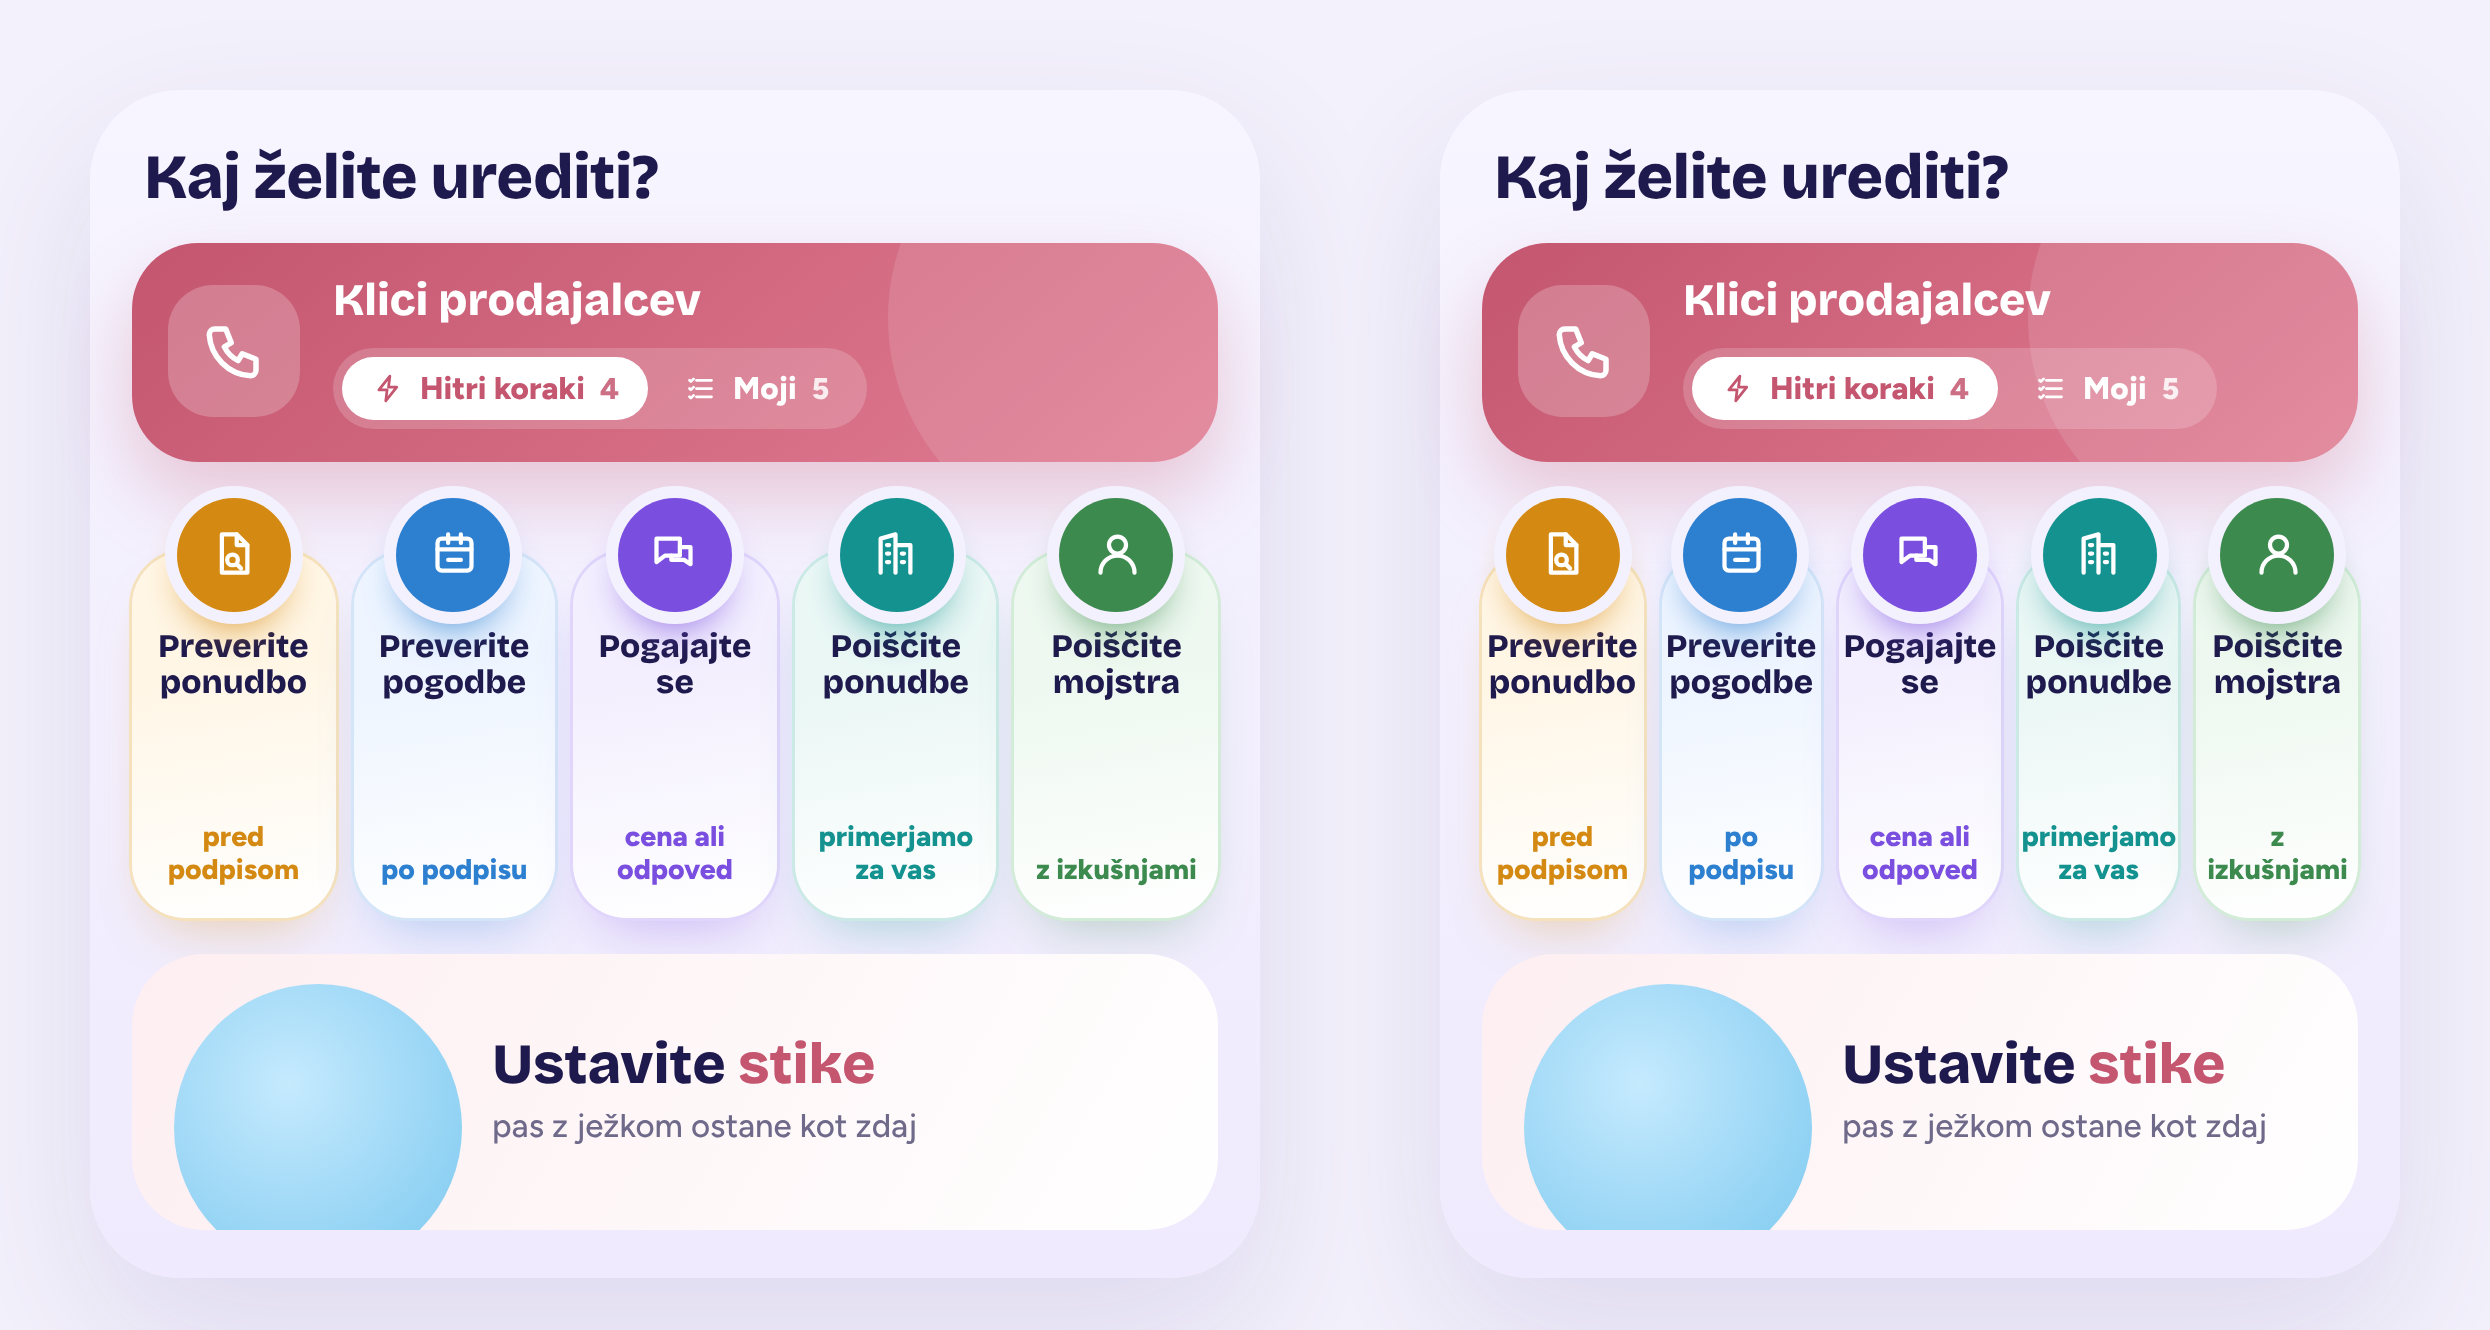
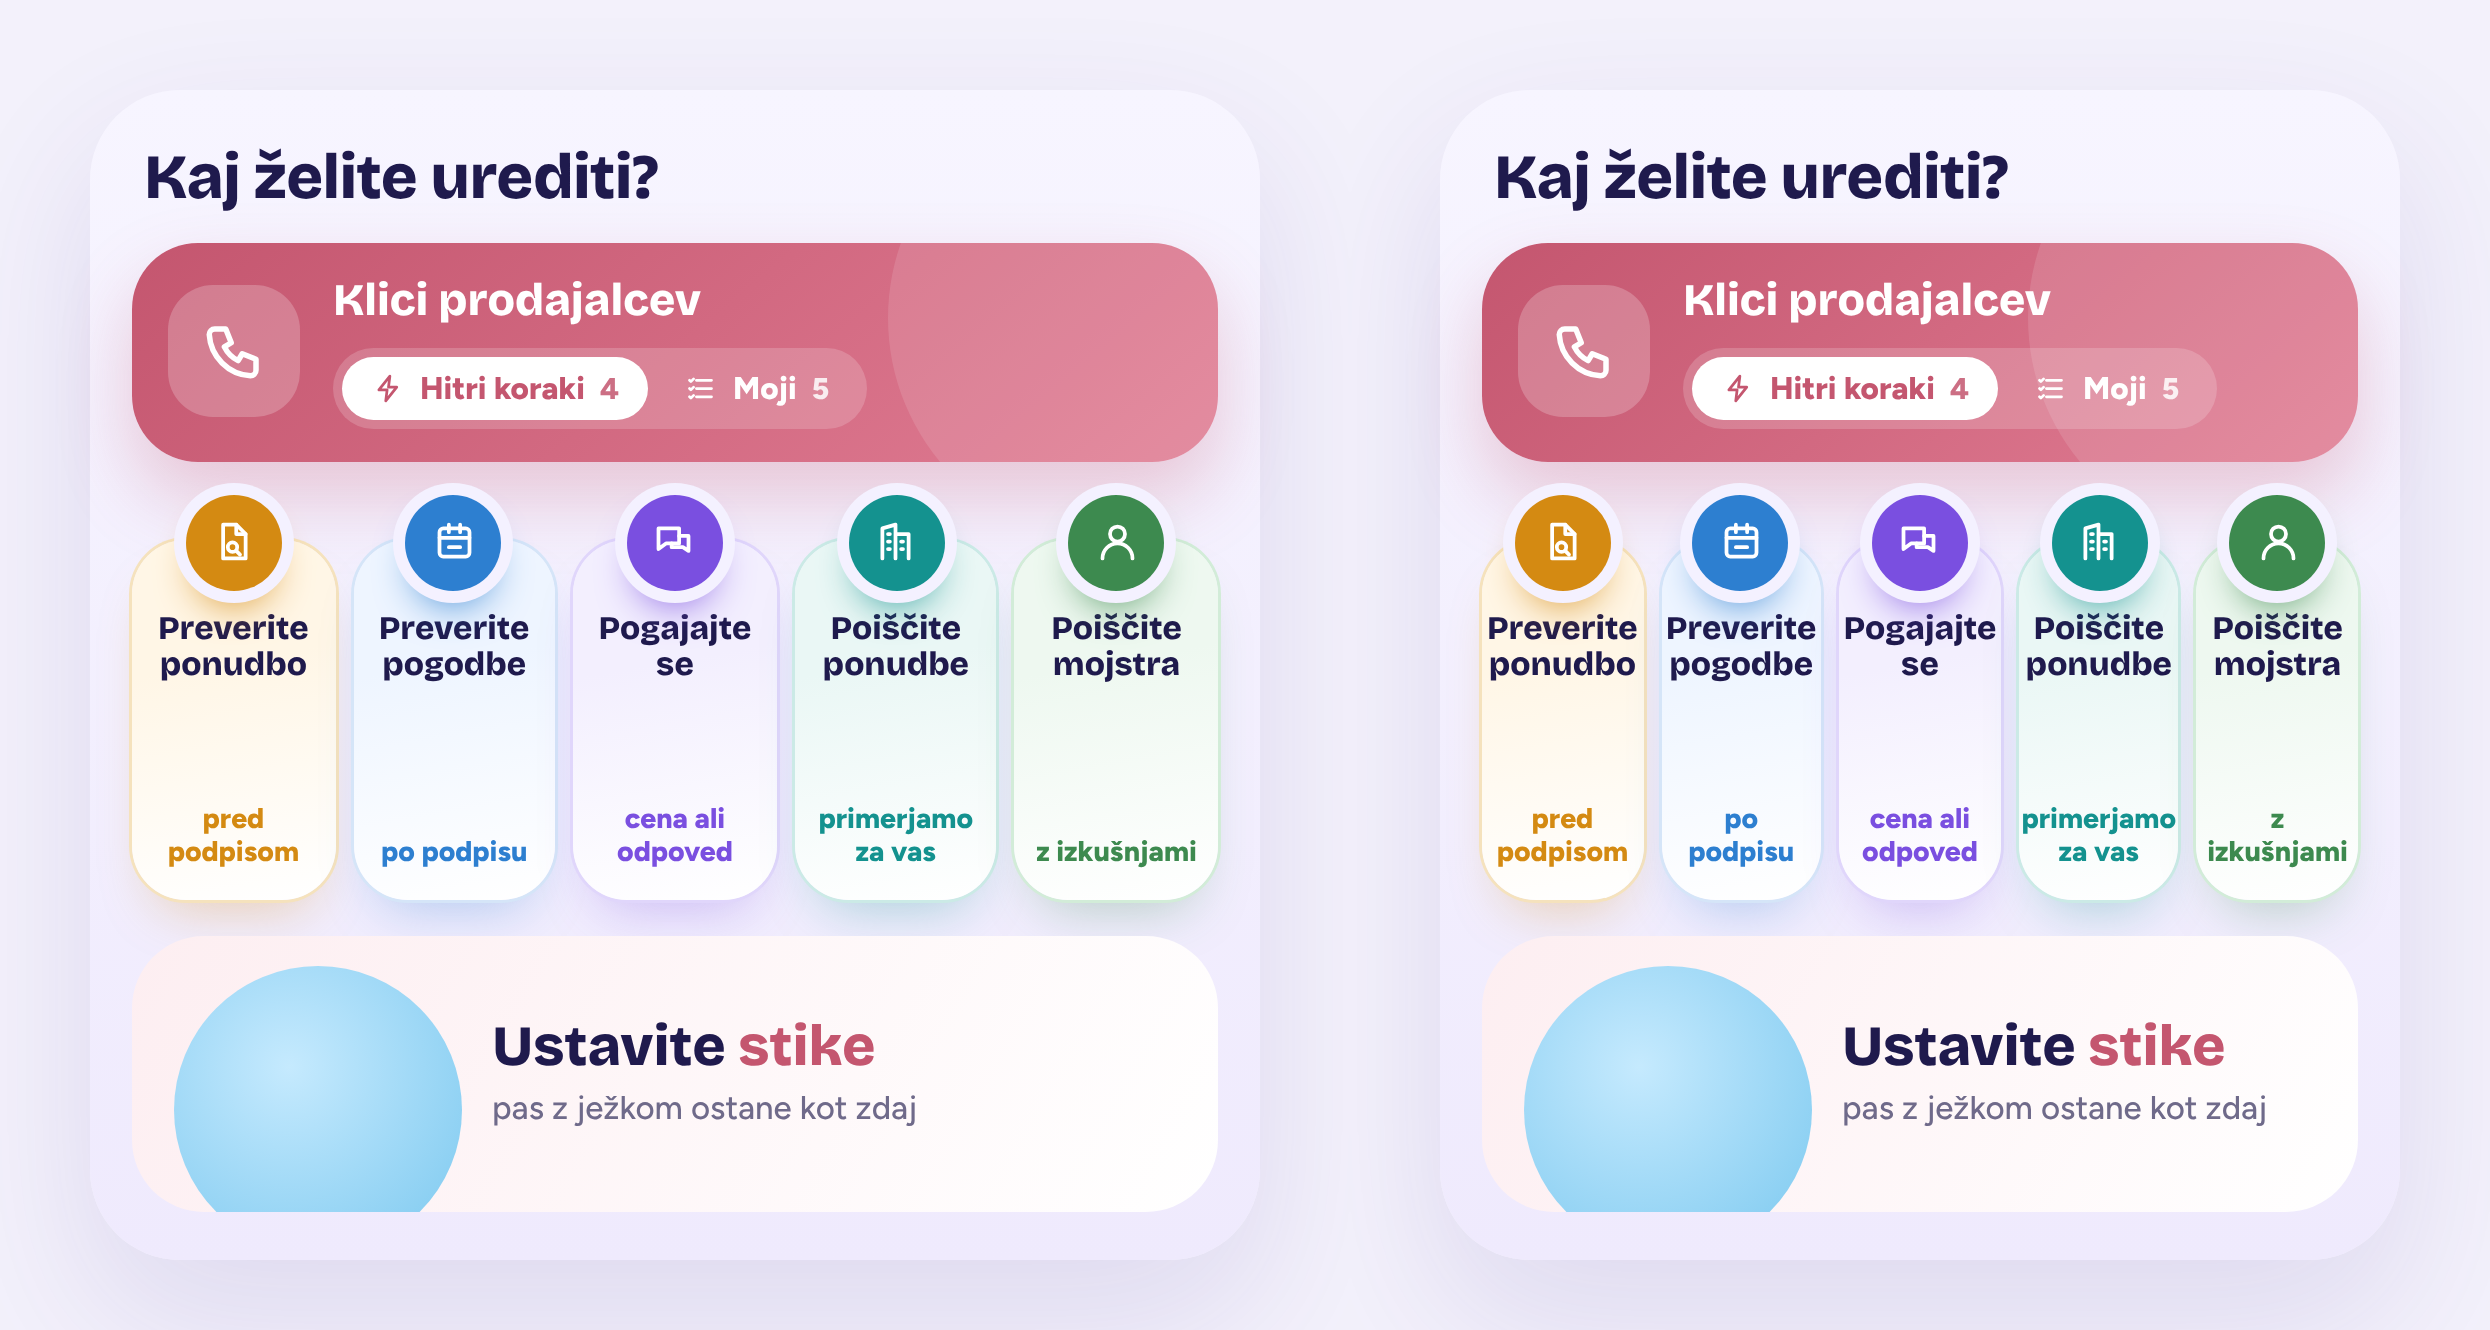
docs: Atena – komponenta kartic »Kaj želite urediti?« (CSS, JS, predogled, navodila za vgradnjo)
Claude-Session: https://claude.ai/code/session_01WHRGRb6JxsE1so6sHvV2Pq

diff --git a/docs/atena-kartice/kartice.js b/docs/atena-kartice/kartice.js
@@ -1,0 +1,68 @@
+/* Atena · »Kaj želite urediti?« — izris in vedenje kartic opravil.
+   Uporaba: UJAtenaOpravila.izrisi(elKoren, { hitri: 4, moji: 5, skupina: "klici", vir: "hitri" });
+   Ob izbiri sproži na korenu dogodek "atena:skupina" z detail { skupina, vir }. */
+(function (root) {
+  "use strict";
+  var I = function (d, s) {
+    return '<svg width="' + s + '" height="' + s + '" viewBox="0 0 24 24" fill="none" stroke="currentColor" stroke-width="2" stroke-linecap="round" stroke-linejoin="round" aria-hidden="true">' + d + "</svg>";
+  };
+  var IKONE = {
+    klici: '<path d="M5 4h4l2 5-2.5 1.5a11 11 0 005 5L15 13l5 2v4a2 2 0 01-2 2A16 16 0 013 6a2 2 0 012-2"/>',
+    ponudba: '<path d="M7 3h7l5 5v13H7z"/><path d="M14 3v5h5"/><circle cx="12" cy="15" r="2.5"/><path d="M14 17l2 2"/>',
+    pogodbe: '<rect x="4" y="5" width="16" height="15" rx="2"/><path d="M4 10h16M9 3v4M15 3v4"/><path d="M9 15h6"/>',
+    pogajanje: '<path d="M4 5h11v8H8l-4 3z"/><path d="M15 9h5v8l-3-2h-6v-2"/>',
+    iskanje: '<path d="M5 21V5l7-2v18M12 8h7v13"/><path d="M8 8h1M8 12h1M8 16h1M15 12h1M15 16h1"/>',
+    mojster: '<circle cx="12" cy="8" r="4"/><path d="M4 21a8 8 0 0116 0"/>',
+    hitri: '<path d="M13 3L5 13h6l-1 8 8-10h-6z"/>',
+    moji: '<path d="M9 6h11M9 12h11M9 18h11"/><path d="M4 6l1 1 2-2M4 12l1 1 2-2M4 18l1 1 2-2"/>'
+  };
+  var SKUPINE = [
+    { id: "ponudba", naslov: "Preverite<br>ponudbo", kontekst: "pred podpisom" },
+    { id: "pogodbe", naslov: "Preverite<br>pogodbe", kontekst: "po podpisu" },
+    { id: "pogajanje", naslov: "Pogajajte<br>se", kontekst: "cena ali odpoved" },
+    { id: "iskanje", naslov: "Poiščite<br>ponudbe", kontekst: "primerjamo za vas" },
+    { id: "mojster", naslov: "Poiščite<br>mojstra", kontekst: "z izkušnjami" }
+  ];
+  var BARVE = { klici: "#c4566f", ponudba: "#d48a12", pogodbe: "#2d7fd0", pogajanje: "#7a4fe0", iskanje: "#14928f", mojster: "#3d8a4f" };
+
+  function izrisi(el, o) {
+    o = o || {};
+    var stanje = { skupina: o.skupina || "klici", vir: o.vir || "hitri" };
+    function html() {
+      var kl = stanje.skupina === "klici";
+      return '<h2 class="atena-opravila__naslov">Kaj želite urediti?</h2>' +
+        '<div class="atena-opravila__glavna" role="button" tabindex="0" data-skupina="klici" aria-pressed="' + kl + '">' +
+        '<span class="atena-opravila__glavna-ikona">' + I(IKONE.klici, 22) + "</span><span>" +
+        '<span class="atena-opravila__glavna-naslov" data-fit-text data-fit-text-min="12">Klici prodajalcev</span>' +
+        '<span class="atena-opravila__stikalo" role="tablist" aria-label="Vir korakov">' +
+        '<button type="button" role="tab" data-vir="hitri" aria-selected="' + (stanje.vir === "hitri") + '">' + I(IKONE.hitri, 11) + " Hitri koraki <i>" + (o.hitri || 0) + "</i></button>" +
+        '<button type="button" role="tab" data-vir="moji" aria-selected="' + (stanje.vir === "moji") + '">' + I(IKONE.moji, 11) + " Moji <i>" + (o.moji || 0) + "</i></button>" +
+        "</span></span></div>" +
+        '<div class="atena-opravila__vrsta">' + SKUPINE.map(function (s) {
+          var iz = stanje.skupina === s.id;
+          return '<button type="button" class="atena-opravila__kartica' + (iz ? " is-izbrana" : "") + '" data-skupina="' + s.id + '" aria-pressed="' + iz + '">' +
+            '<span class="atena-opravila__kartica-ikona">' + I(IKONE[s.id], 15) + "</span>" +
+            '<span class="atena-opravila__kartica-naslov" data-fit-text data-fit-text-min="9" data-fit-text-lines="2">' + s.naslov + "</span>" +
+            '<span class="atena-opravila__kartica-kontekst" data-fit-text data-fit-text-min="8" data-fit-text-lines="2">' + s.kontekst + "</span></button>";
+        }).join("") + "</div>";
+    }
+    function sporoci() {
+      el.style.setProperty("--atena-c", BARVE[stanje.skupina]);
+      el.dispatchEvent(new CustomEvent("atena:skupina", { bubbles: true, detail: { skupina: stanje.skupina, vir: stanje.vir } }));
+    }
+    function osvezi() { el.innerHTML = html(); sporoci(); }
+    el.classList.add("atena-opravila");
+    el.addEventListener("click", function (e) {
+      var vir = e.target.closest("[data-vir]");
+      if (vir) { stanje.vir = vir.getAttribute("data-vir"); stanje.skupina = "klici"; osvezi(); return; }
+      var k = e.target.closest("[data-skupina]");
+      if (k) { stanje.skupina = k.getAttribute("data-skupina"); osvezi(); }
+    });
+    el.addEventListener("keydown", function (e) {
+      if ((e.key === "Enter" || e.key === " ") && e.target.matches(".atena-opravila__glavna")) { e.preventDefault(); stanje.skupina = "klici"; osvezi(); }
+    });
+    osvezi();
+    return { stanje: function () { return { skupina: stanje.skupina, vir: stanje.vir }; } };
+  }
+  root.UJAtenaOpravila = { izrisi: izrisi };
+})(typeof window !== "undefined" ? window : this);

diff --git a/docs/atena-kartice/kartice.css b/docs/atena-kartice/kartice.css
@@ -1,0 +1,31 @@
+/* Atena · »Kaj želite urediti?« — kartice opravil */
+.atena-opravila{--atena-c:#c4566f;font-family:"Figtree",system-ui,sans-serif;color:#1f1a4d}
+.atena-opravila__naslov{font:800 21px/1.1 "Bricolage Grotesque",sans-serif;margin:4px 4px 10px;letter-spacing:-.01em}
+
+/* prva kartica */
+.atena-opravila__glavna{position:relative;overflow:hidden;display:grid;grid-template-columns:44px minmax(0,1fr);gap:11px;align-items:center;width:100%;border:0;text-align:left;border-radius:22px;padding:11px 12px;color:#fff;background:linear-gradient(140deg,#c4566f,#e07c93);box-shadow:0 12px 24px rgba(196,86,111,.28);cursor:pointer;font:inherit}
+.atena-opravila__glavna::after{content:"";position:absolute;right:-40px;top:-50px;width:150px;height:150px;border-radius:50%;background:rgba(255,255,255,.12);pointer-events:none}
+.atena-opravila__glavna[aria-pressed="false"]{opacity:.92;box-shadow:0 6px 14px rgba(196,86,111,.18)}
+.atena-opravila__glavna-ikona{width:44px;height:44px;border-radius:15px;background:rgba(255,255,255,.22);display:grid;place-items:center}
+.atena-opravila__glavna-naslov{position:relative;z-index:1;display:block;font:800 15px/1.1 "Bricolage Grotesque",sans-serif}
+.atena-opravila__stikalo{position:relative;z-index:1;display:inline-flex;margin-top:7px;background:rgba(255,255,255,.18);border-radius:99px;padding:3px;gap:2px}
+.atena-opravila__stikalo button{display:flex;align-items:center;gap:5px;min-height:28px;border:0;border-radius:99px;padding:4px 10px;background:transparent;color:#fff;font:800 10.5px "Figtree",sans-serif;white-space:nowrap;cursor:pointer}
+.atena-opravila__stikalo button[aria-selected="true"]{background:#fff;color:#c4566f}
+.atena-opravila__stikalo i{font-style:normal;font-size:10px;opacity:.85}
+
+/* pet kartic */
+.atena-opravila__vrsta{display:grid;grid-template-columns:repeat(5,minmax(0,1fr));gap:6px;margin-top:26px}
+.atena-opravila__kartica{--c:#7a4fe0;--bg:#f3effe;--bd:#e0d6fb;position:relative;display:flex;flex-direction:column;align-items:center;gap:5px;min-height:120px;padding:24px 5px 10px;border:0;border-radius:18px;text-align:center;font:inherit;cursor:pointer;background:linear-gradient(170deg,var(--bg) 0%,var(--bg) 35%,#fff 100%);box-shadow:0 0 0 1px var(--bd),0 10px 18px -8px color-mix(in srgb,var(--c) 35%,transparent);transition:box-shadow .18s ease,transform .18s ease}
+.atena-opravila__kartica-ikona{position:absolute;top:-15px;left:50%;transform:translateX(-50%);width:32px;height:32px;border-radius:50%;display:grid;place-items:center;background:var(--c);color:#fff;box-shadow:0 0 0 4px #f4f1ff,0 8px 14px -4px var(--c)}
+.atena-opravila__kartica-naslov{font:800 11px/1.12 "Bricolage Grotesque",sans-serif;color:#1f1a4d}
+.atena-opravila__kartica-kontekst{margin-top:auto;font:800 9.5px/1.2 "Figtree",sans-serif;color:var(--c)}
+.atena-opravila__kartica.is-izbrana{box-shadow:0 0 0 2px var(--c),0 12px 20px -8px color-mix(in srgb,var(--c) 55%,transparent)}
+.atena-opravila__kartica:focus-visible,.atena-opravila__glavna:focus-visible{outline:3px solid color-mix(in srgb,var(--c,#c4566f) 45%,transparent);outline-offset:2px}
+
+.atena-opravila__kartica[data-skupina="ponudba"]{--c:#d48a12;--bg:#fff6e6;--bd:#f5e2bd}
+.atena-opravila__kartica[data-skupina="pogodbe"]{--c:#2d7fd0;--bg:#eef5ff;--bd:#d5e5f8}
+.atena-opravila__kartica[data-skupina="pogajanje"]{--c:#7a4fe0;--bg:#f3effe;--bd:#e0d6fb}
+.atena-opravila__kartica[data-skupina="iskanje"]{--c:#14928f;--bg:#eaf7f5;--bd:#cbeae6}
+.atena-opravila__kartica[data-skupina="mojster"]{--c:#3d8a4f;--bg:#eef8f0;--bd:#d2ecd8}
+
+@media (prefers-reduced-motion:no-preference){.atena-opravila__kartica:active{transform:scale(.97)}}

diff --git a/docs/atena-kartice/predogled.html b/docs/atena-kartice/predogled.html
@@ -1,0 +1,13 @@
+<!doctype html>
+<html lang="sl"><head><meta charset="utf-8"><meta name="viewport" content="width=device-width,initial-scale=1">
+<title>Atena kartice – predogled</title>
+<link href="https://fonts.googleapis.com/css2?family=Bricolage+Grotesque:opsz,wght@12..96,600..800&family=Figtree:wght@500;600;700;800&display=swap" rel="stylesheet">
+<link rel="stylesheet" href="kartice.css">
+<style>body{margin:0;background:#f3f1fb}.ph{max-width:390px;margin:0 auto;padding:14px;background:linear-gradient(180deg,#f7f5ff,#efeafd)}#izpis{margin-top:14px;font:600 12px Figtree,sans-serif;color:#6f6a8a}</style>
+</head><body><div class="ph"><div id="opravila"></div><div id="izpis"></div></div>
+<script src="kartice.js"></script>
+<script>
+var el=document.getElementById("opravila");
+el.addEventListener("atena:skupina",function(e){document.getElementById("izpis").textContent="Pas z ježkom: skupina »"+e.detail.skupina+"«, vir »"+e.detail.vir+"«";});
+UJAtenaOpravila.izrisi(el,{hitri:4,moji:5});
+</script></body></html>

diff --git a/docs/atena-kartice/README.md b/docs/atena-kartice/README.md
@@ -1,0 +1,43 @@
+# Atena → »Kaj želite urediti?« — nove kartice (za vgradnjo)
+
+Potrjena slika: `../marketing-predlog/atena-kartice-izbrana.png` (levo 390 px, desno 320 px).
+
+Kode vijolične strani Atena v repozitoriju ni, ker obstaja samo lokalno. Zato je tukaj samostojna komponenta: `kartice.css`, `kartice.js` in predogled `predogled.html`. **V lokalni strani zamenjaj obstoječi blok »Kaj želite urediti?« in zavihke »Hitri koraki / Moji koraki«**. Ne dodajaj druge vzporedne strani.
+
+## Kaj se spremeni
+
+1. **Zavihki »Hitri koraki 4 / Moji koraki 5 / +« nad naslovom se odstranijo.** Stikalo je zdaj v prvi kartici.
+2. **Prva kartica čez vso širino (rožnata), »Klici prodajalcev«.** V njej je stikalo `Hitri koraki N` / `Moji N`. Gumb `+` za nov lasten korak ostane v obstoječem »Uredi«.
+3. **Pod njo pet kartic v eni vrsti.** Ikona v polnem krogu sega čez zgornji rob kartice, kartica je obarvana v svoji barvi, kontekst je spodaj v barvi kartice.
+
+| Kartica | Naslov | Kontekst | Barva |
+|---|---|---|---|
+| prej »Hitri koraki« | Klici prodajalcev | (stikalo Hitri / Moji) | `#c4566f` |
+| Pregled ponudbe | Preverite ponudbo | pred podpisom | `#d48a12` |
+| Pregled pogodb | Preverite pogodbe | po podpisu | `#2d7fd0` |
+| Pogajanje / odpoved | Pogajajte se | cena ali odpoved | `#7a4fe0` |
+| Iskanje ponudb | Poiščite ponudbe | primerjamo za vas | `#14928f` |
+| Iskanje delavca | Poiščite mojstra | z izkušnjami | `#3d8a4f` |
+
+## Vedenje (ostane enako kot zdaj)
+
+- Tap na kartico jo izbere (`aria-pressed="true"`, razred `is-izbrana`). **Pas z ježkom spodaj se takoj napolni s koraki te skupine**, brez pomikanja.
+- Stikalo Hitri / Moji v prvi kartici preklopi vir korakov v pasu (obstoječa logika zavihkov). Ob tem se izbere prva kartica.
+- Komponenta sproži dogodek `atena:skupina` z `{ skupina, vir }`. Nanj priklopi obstoječo funkcijo, ki zdaj polni pas z ježkom.
+- Barva izbrane skupine je na korenu kot `--atena-c`, da pas z ježkom lahko vzame isto barvo (neobvezno).
+
+## Mere (390 px)
+
+- prva kartica: radij 22 px, odmik 12 px, ikona 44 × 44 px;
+- vrsta kartic: 5 stolpcev, razmik 6 px, zgornji odmik 26 px za krogce;
+- kartica: najmanj 120 px, radij 18 px, notranji odmik zgoraj 24 px;
+- krog ikone: **32 × 32 px** (zmanjšan), sega 15 px čez rob, bel obroč 4 px;
+- naslov 11 px Bricolage 800, kontekst 9,5 px Figtree 800 v barvi kartice.
+
+Pri 320 px se mere ne spremenijo, besedila se prilegajo. Naslov in kontekst imata `data-fit-text`, zato ju obstoječe samodejno pomanjšanje zmanjša, če bi besedilo kdaj preseglo kartico.
+
+## Preveri po vgradnji
+
+- 390 × 844 in 320 px v `?app-preview=1`: prva kartica, 5 kartic, pas z ježkom, Uredi / Izberi korak in vnos za Ateno so vidni brez pomikanja;
+- menjava kartic in stikala Hitri / Moji takoj zamenja pas;
+- dvig `?v=` pri spremenjenem CSS in JS.
